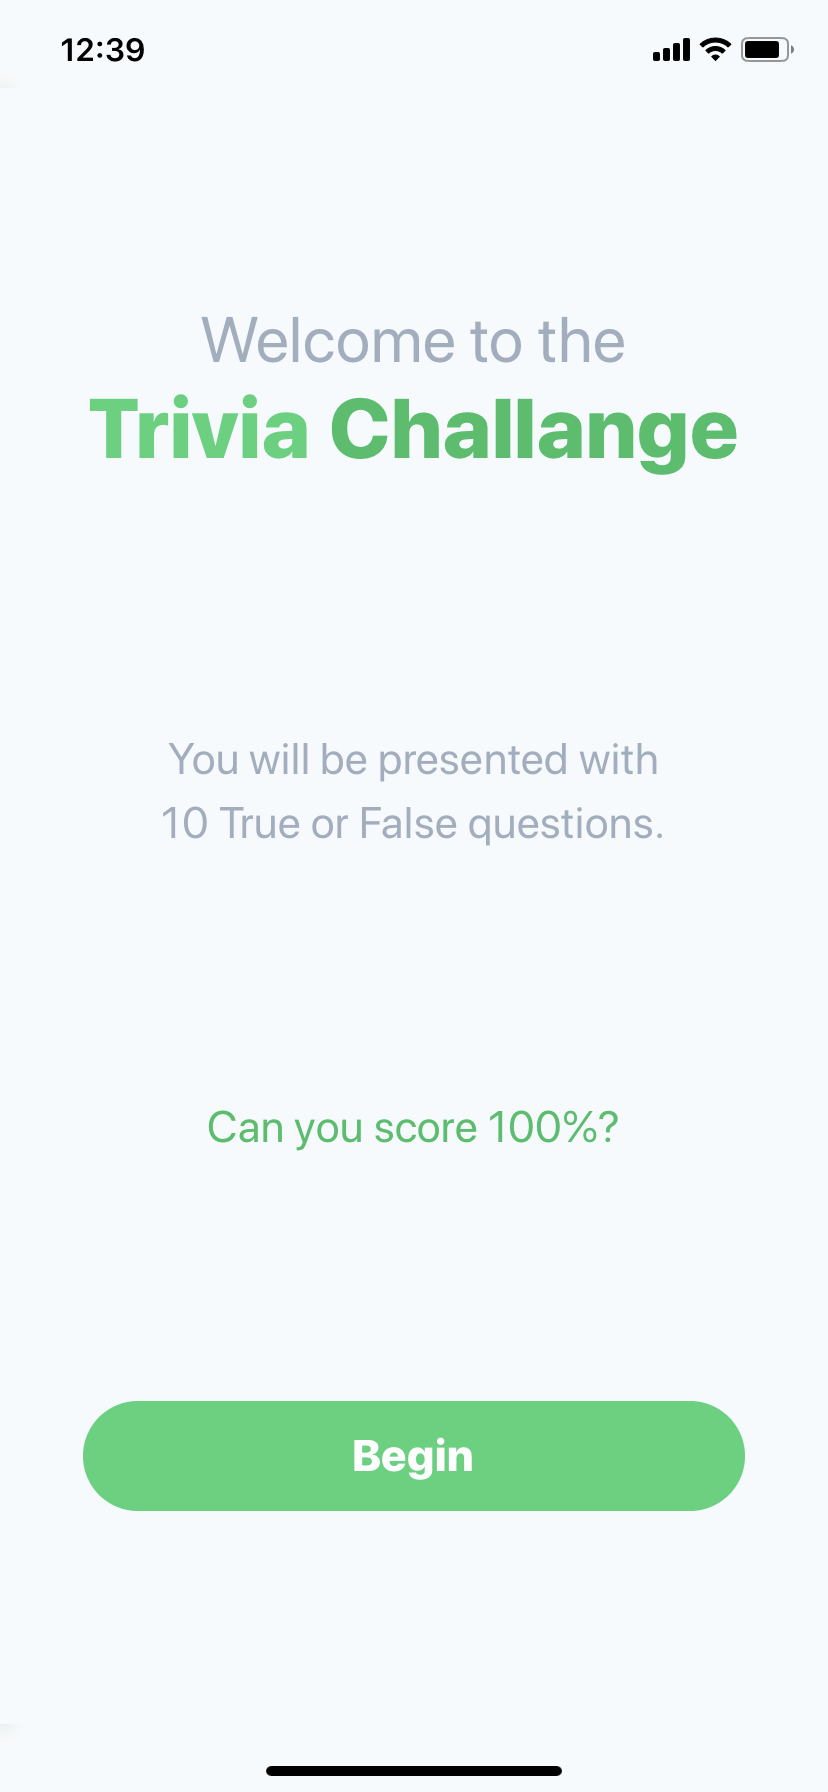
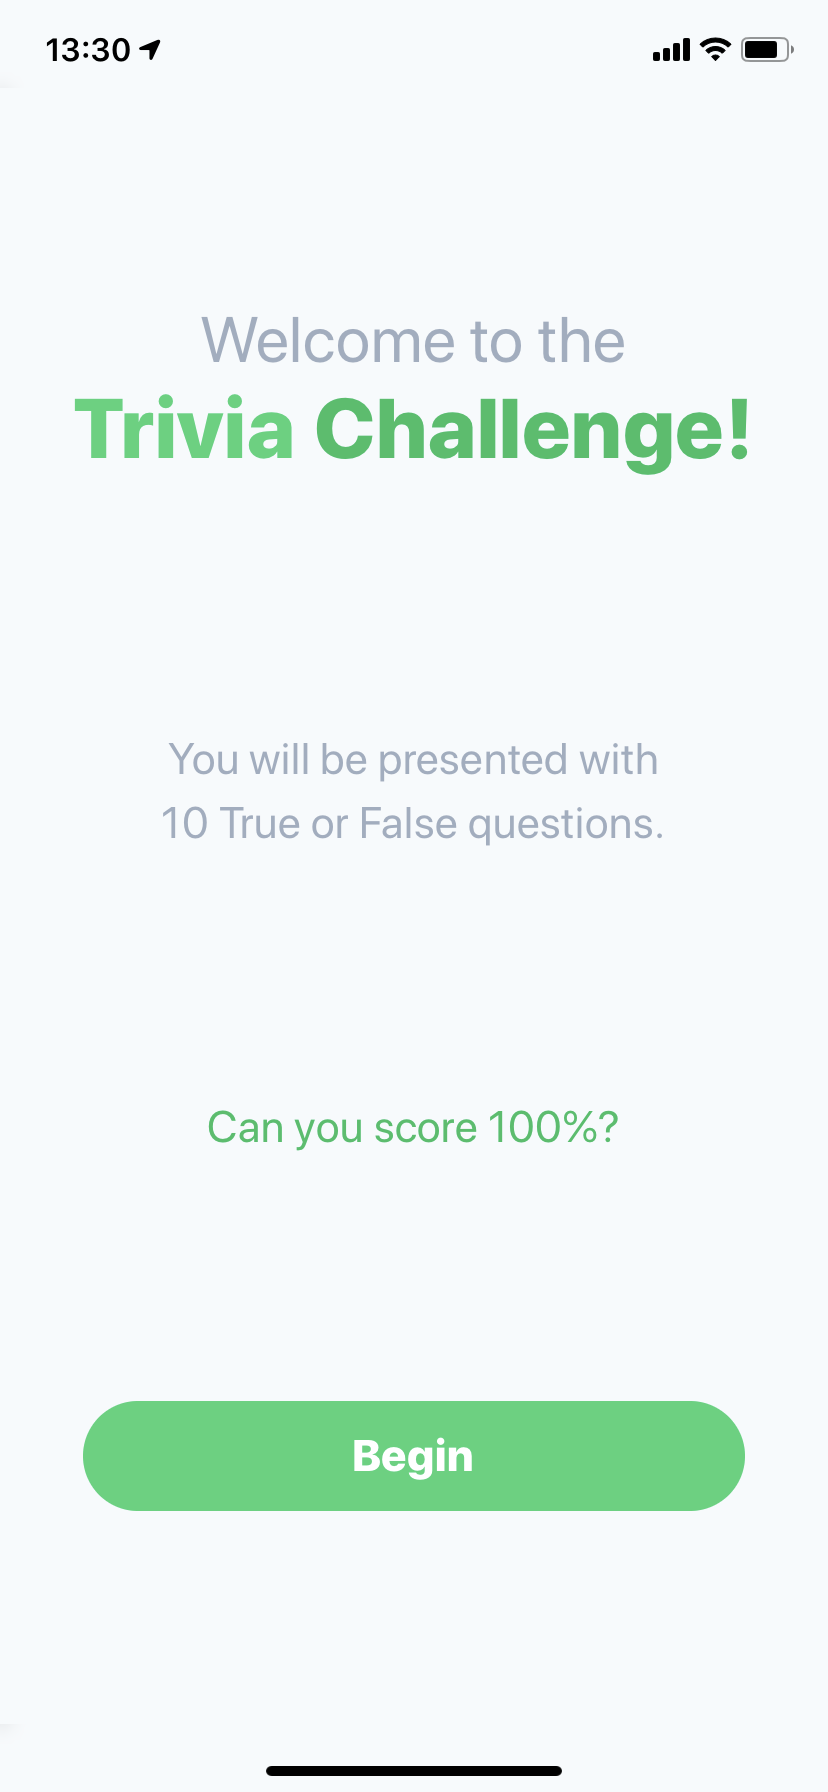
fix(welcome): fixed title typo

Changed region(s): [[0.0906, 0.2188, 0.9058, 0.2812], [0.0604, 0.0, 0.1812, 0.0312]]

diff --git a/components/question/QuestionCard.tsx b/components/question/QuestionCard.tsx
@@ -11,6 +11,8 @@ const styles = StyleSheet.create({
     color: colors.DARKEST_GREEN,
     fontWeight: '600',
     marginBottom: 30,
+    width: '85%',
+    textAlign: 'center',
   },
   question: {
     fontSize: 32,
@@ -24,7 +26,8 @@ const styles = StyleSheet.create({
     backgroundColor: 'white',
     width: '100%',
     position: 'absolute',
-    bottom: 0,
+    left: 0,
+    bottom: -1,
     flexDirection: 'row',
     justifyContent: 'center',
     alignItems: 'stretch',

diff --git a/components/welcome/Welcome.tsx b/components/welcome/Welcome.tsx
@@ -56,7 +56,7 @@ export default function Welcome() {
         <Text style={styles.welcomeIntro}>Welcome to the</Text>
         <View style={defaultStyles.inline}>
           <Text style={styles.trivia}>Trivia </Text>
-          <Text style={styles.challenge}>Challange</Text>
+          <Text style={styles.challenge}>Challenge!</Text>
         </View>
       </View>
       <Text style={styles.instructions}>

diff --git a/components/shared/Card.tsx b/components/shared/Card.tsx
@@ -40,7 +40,7 @@ const Card: React.FC<any> = ({ bg = colors.PRIMARY_GREEN, children }) => {
           {
             width: width - 60,
             height: 'auto',
-            minHeight: height * 0.55,
+            minHeight: height * 0.58,
             backgroundColor: bg,
           },
         ]}
